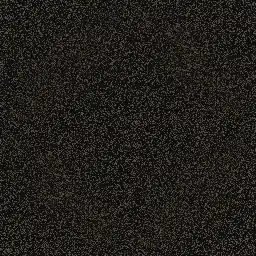
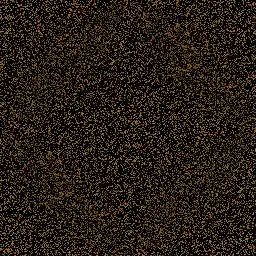
feat: Add test transition tile

diff --git a/src/map/tile/tile.css b/src/map/tile/tile.css
@@ -8,7 +8,7 @@
     align-items: center;
     justify-content: center;
 
-    background-image: url("water.webp");
+    background-image: url("grassland_water_transition.webp");
     background-size: cover;
 
     font-size: 9px;
